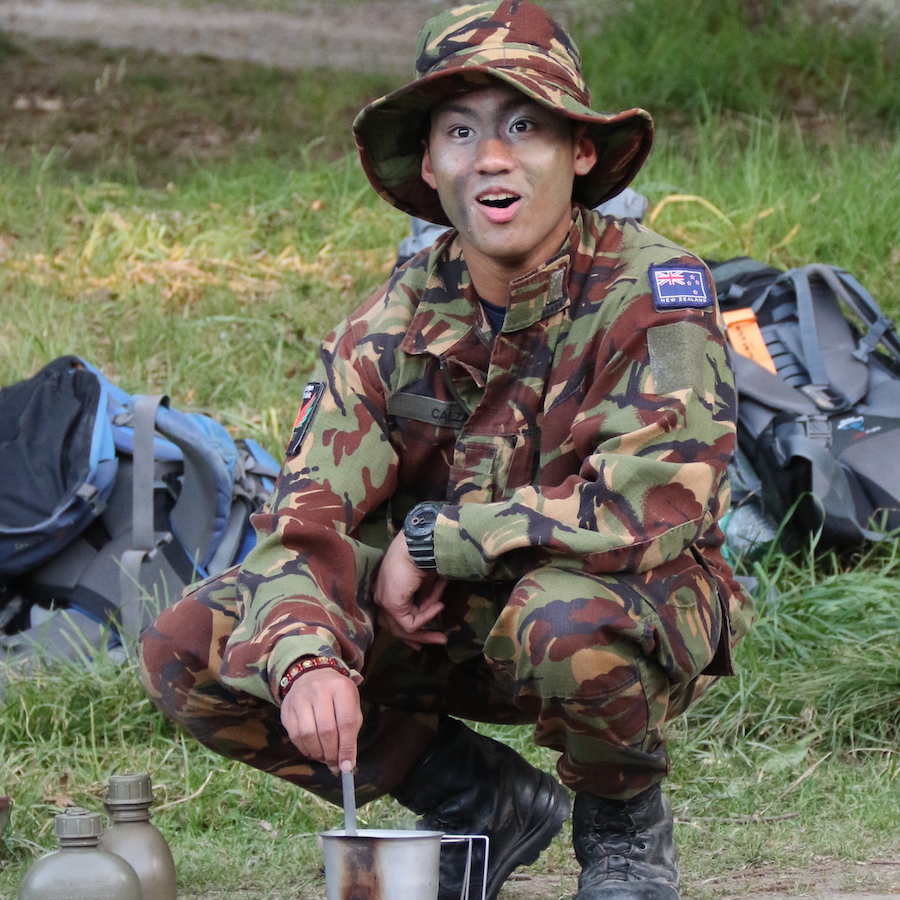
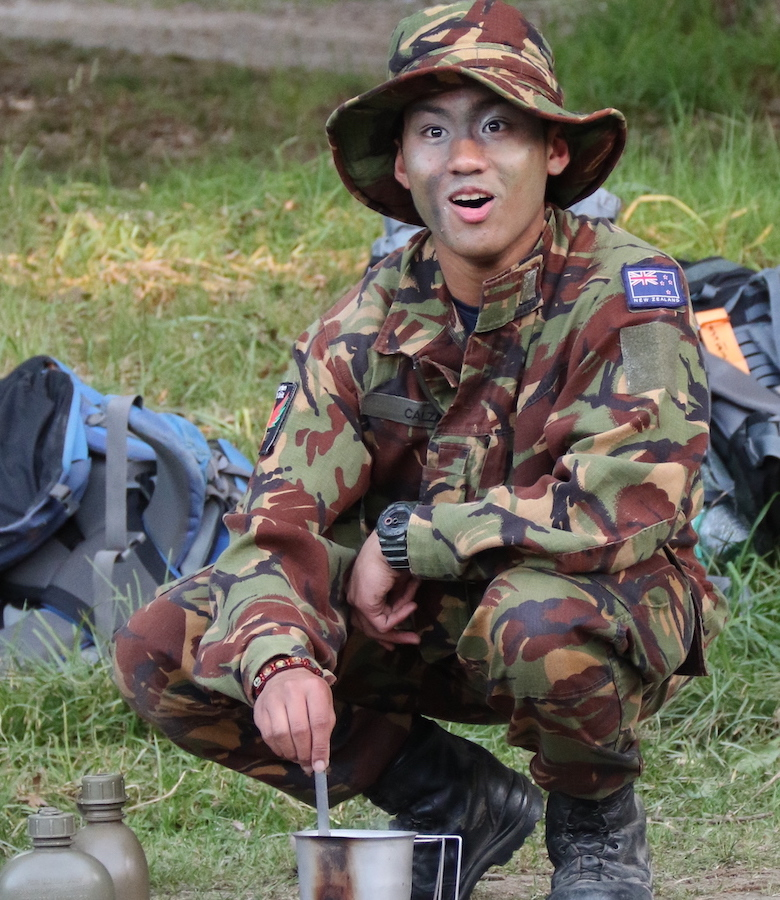
Add home page images

diff --git a/css/styles.scss b/css/styles.scss
@@ -10,6 +10,9 @@
 body {
   font: 100% $font-stack;
   color: $primary-text-color;
+  p {
+    line-height: 1.7;
+  }
 }
 
 h2 {
@@ -173,12 +176,13 @@ footer {
 .image-text {
   display: flex;
   height: auto;
-  gap: 1em;
+  gap: 2em;
   margin: 10em -5em;
-  p:first-child {
-    flex: 1;
-  }
-  div {
-    flex: 1;
+}
+
+.image-row {
+  margin: 0 -10em;
+  img {
+    width: 33%;
   }
 }

diff --git a/index.md b/index.md
@@ -15,18 +15,20 @@ The New Zealand Cadet Forces (NZCF or Cadet Forces) is a voluntary, uniformed or
 The Cadet Forces is a non-profit organisation for the youth of New Zealand which has existed continually since 1864, and in its present form in a partnership with the New Zealand Defence Force and locally appointed community organisations since 1971, making it New Zealand’s oldest youth organisation. 
 <section class="image-text">
 
-![test image](https://via.placeholder.com/600x400)
+![test image](/img/home/parade.jpg)
 
 <div>
+
 ## Life Skills
 
 Our aim is to instil leadership and honourable values in our youth so as to develop and enable self-disciplined, confident and responsible young New Zealanders, who come out feeling stronger than ever, and are armed with skill sets that will last them a lifetime.
 </div>
 </section>
 
-![test image](https://via.placeholder.com/150)
-![test image](https://via.placeholder.com/150)
-![test image](https://via.placeholder.com/150)
+![test image](/img/home/confidence.jpg)
+![test image](/img/home/sailing.jpg)
+![test image](/img/home/glider.jpg)
+{: .image-row}
 
 <section class="image-text">
 <div>
@@ -35,11 +37,11 @@ Our aim is to instil leadership and honourable values in our youth so as to deve
 Cadets have the opportunity to take part in unique adventurous, fulfilling and educational activities in a military-like environment. Through these activities, cadets get the chance to develop a sense of purpose, responsibility, self confidence, self respect, self discipline, self reliance, leadership ability, and commitment to voluntary service. 
 </div>
 
-![test image](https://via.placeholder.com/350x550)
+![test image](/img/home/snco-course.jpg)
 </section>
 
 <section class="image-text">
-![test image](https://via.placeholder.com/350x550)
+![test image](/img/home/coxswains.jpg)
 
 <div>
 
